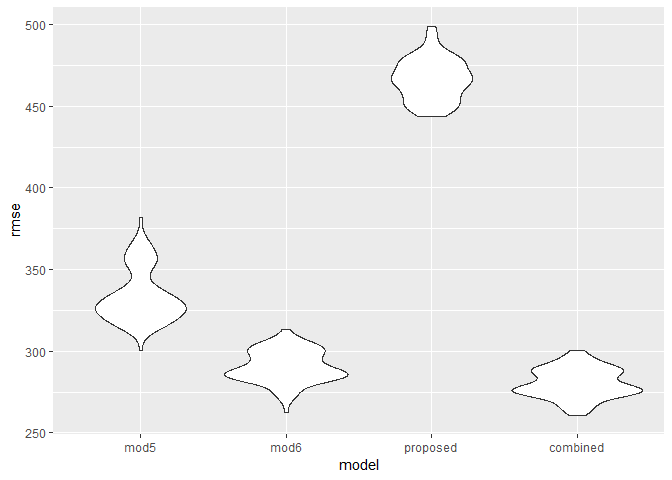
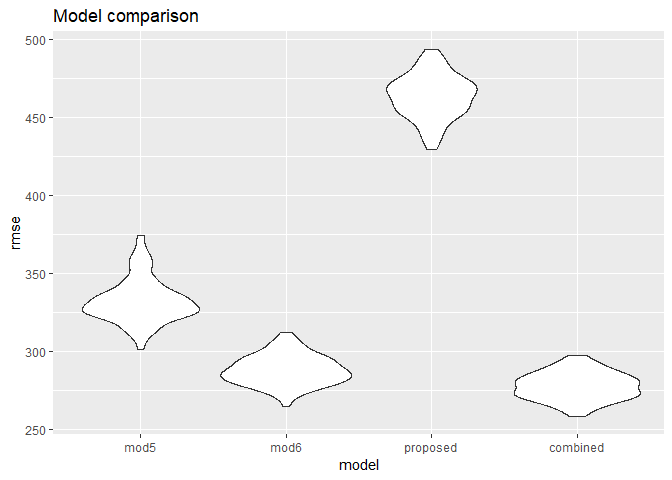
added plot titles

diff --git a/hw6.md b/hw6.md
@@ -20,14 +20,14 @@ Problem 1
 library(tidyverse)
 ```
 
-    ## -- Attaching packages ------------------------------------------------------------------------------------- tidyverse 1.2.1 --
+    ## -- Attaching packages ------------------------------------------------------------ tidyverse 1.2.1 --
 
     ## v ggplot2 3.1.0     v purrr   0.2.5
     ## v tibble  1.4.2     v dplyr   0.7.6
     ## v tidyr   0.8.1     v stringr 1.3.1
     ## v readr   1.1.1     v forcats 0.3.0
 
-    ## -- Conflicts ---------------------------------------------------------------------------------------- tidyverse_conflicts() --
+    ## -- Conflicts --------------------------------------------------------------- tidyverse_conflicts() --
     ## x dplyr::filter() masks stats::filter()
     ## x dplyr::lag()    masks stats::lag()
 
@@ -342,7 +342,13 @@ cv_df %>%
   gather(key = model, value = rmse) %>% 
   mutate(model = str_replace(model, "rmse_", ""),
          model = fct_inorder(model)) %>% 
-  ggplot(aes(x = model, y = rmse)) + geom_violin()
+  ggplot(aes(x = model, y = rmse)) + 
+  geom_violin() +
+  labs(
+    title = "Model comparison",
+    x = "model",
+    y = "rmse"
+    ) 
 ```
 
 ![](hw6_files/figure-markdown_github/proposed%20model%20plot-1.png)
@@ -359,7 +365,7 @@ resid_and_pred %>%
   ggplot(aes(x = pred, y = resid)) +
   geom_point() +
   labs(
-    title = "Model",
+    title = "Proposed Model",
     x = "Predictions",
     y = "Residuals"
     ) 
@@ -389,7 +395,13 @@ cv_df2 %>%
   gather(key = model, value = rmse) %>% 
   mutate(model = str_replace(model, "rmse_", ""),
          model = fct_inorder(model)) %>% 
-  ggplot(aes(x = model, y = rmse)) + geom_violin()
+  ggplot(aes(x = model, y = rmse)) + 
+  geom_violin() +
+  labs(
+    title = "Model comparison",
+    x = "model",
+    y = "rmse"
+    ) 
 ```
 
 ![](hw6_files/figure-markdown_github/compare%20to%20jeffs%20models-1.png)
